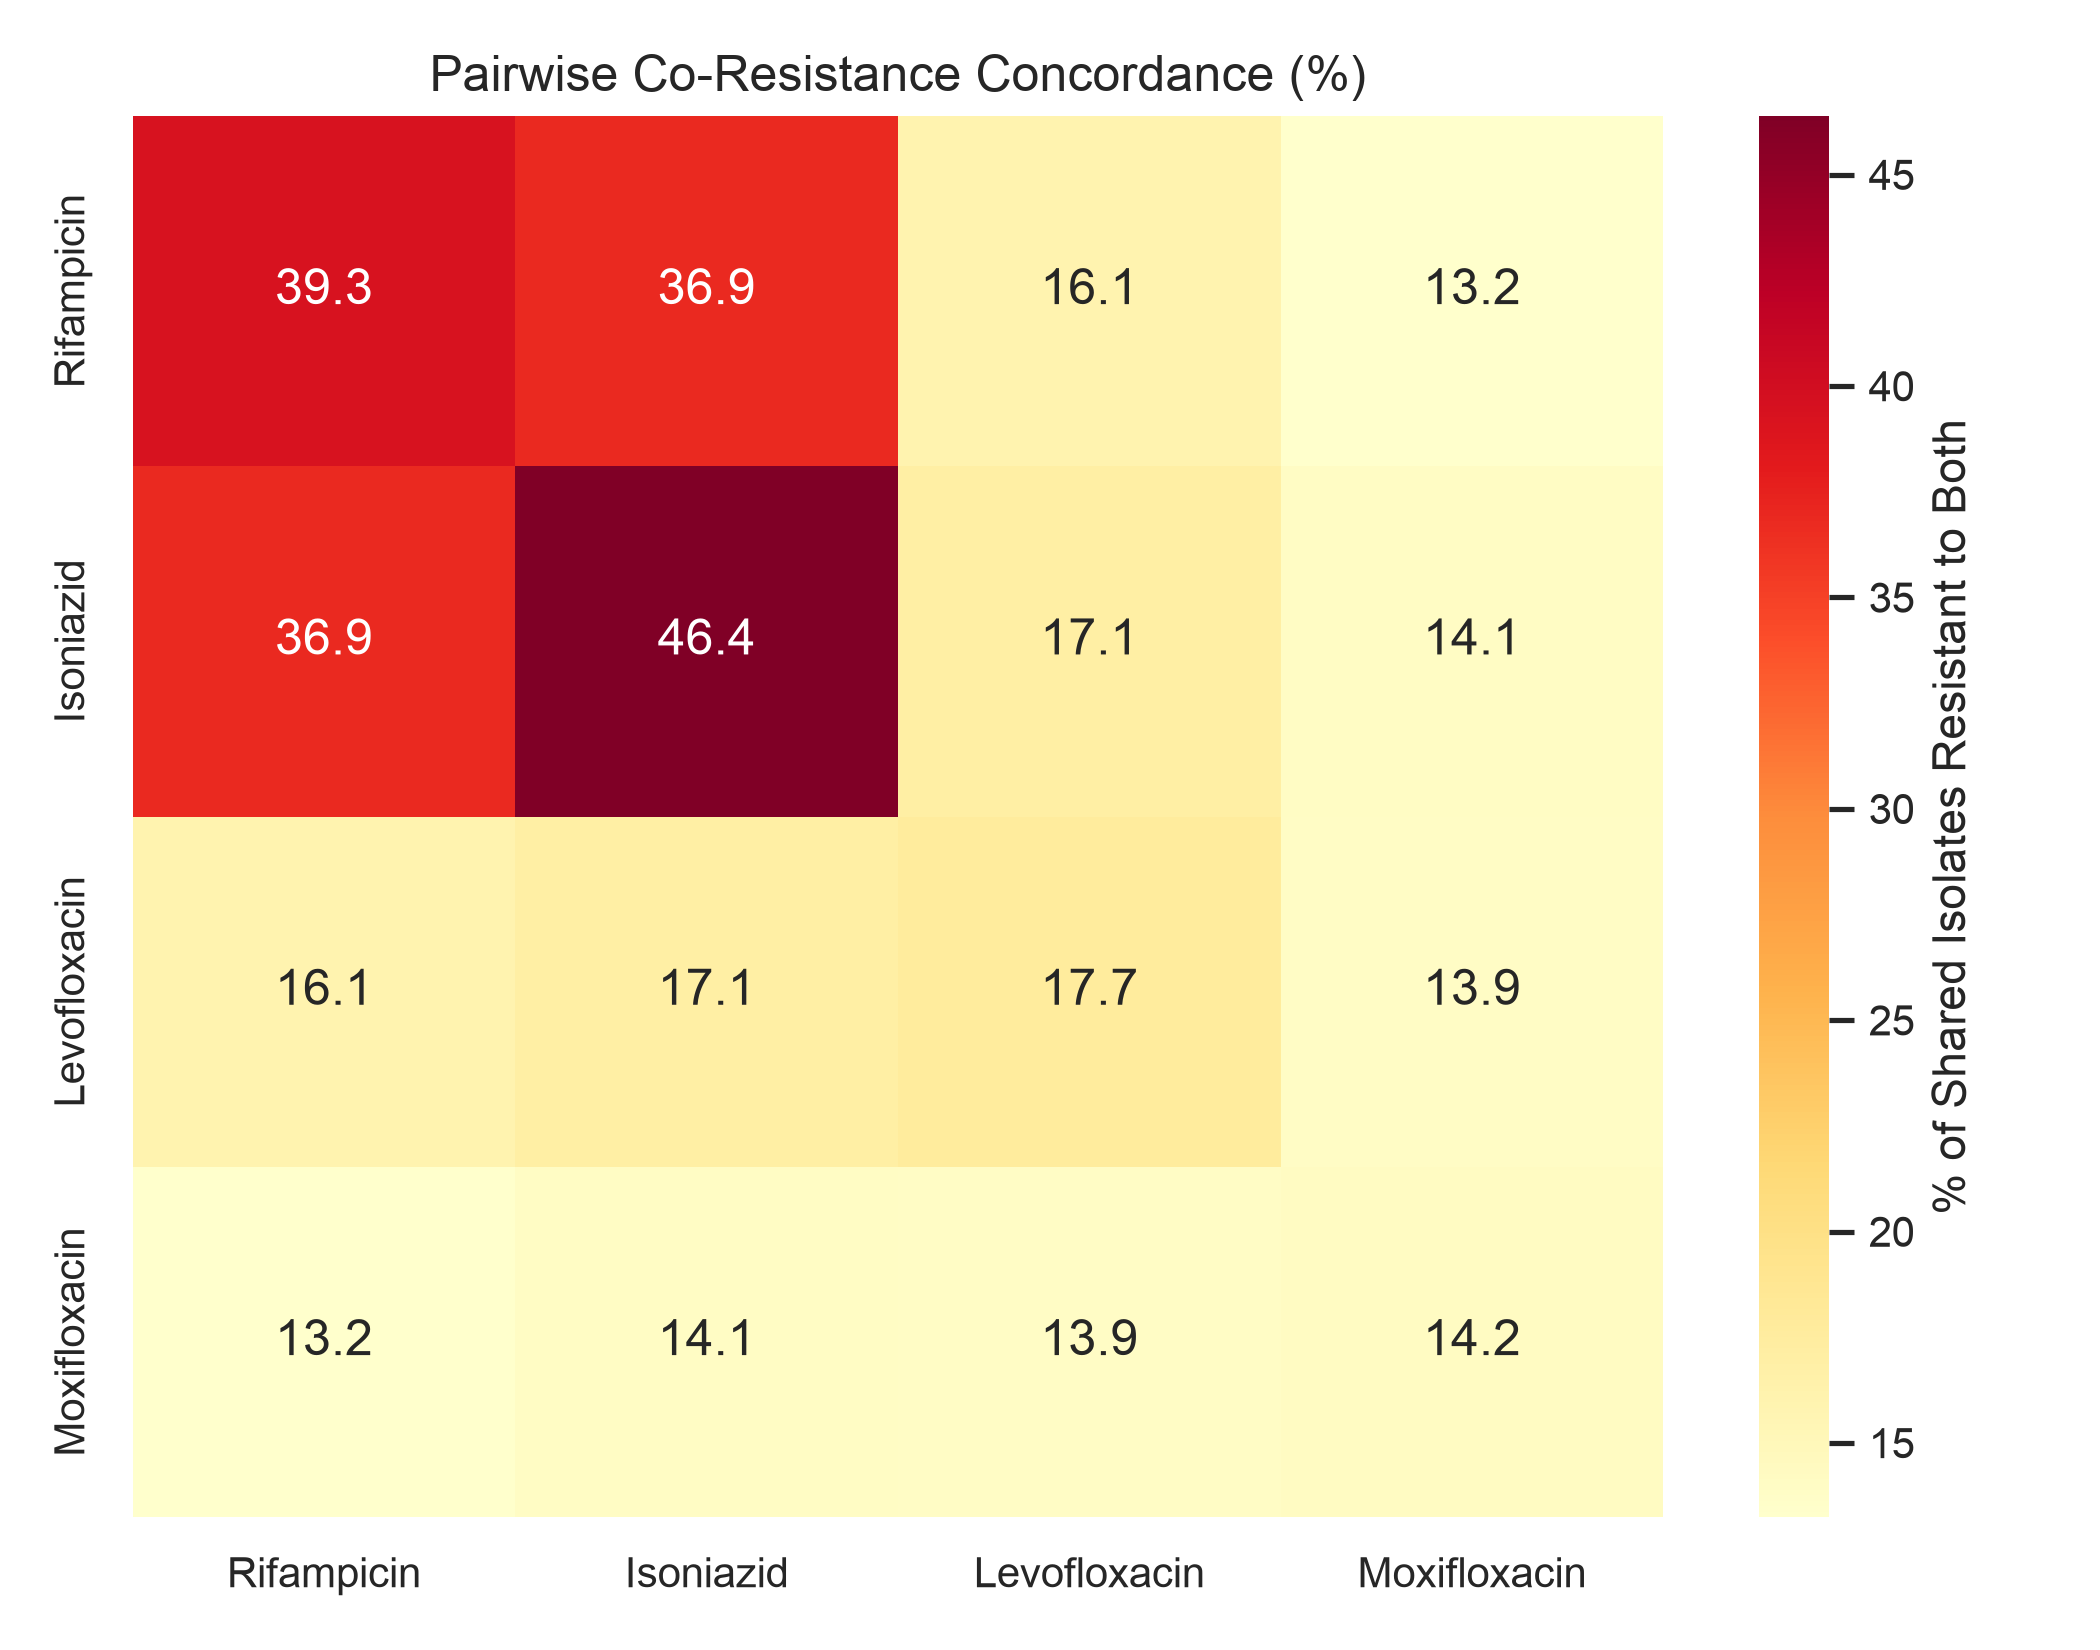
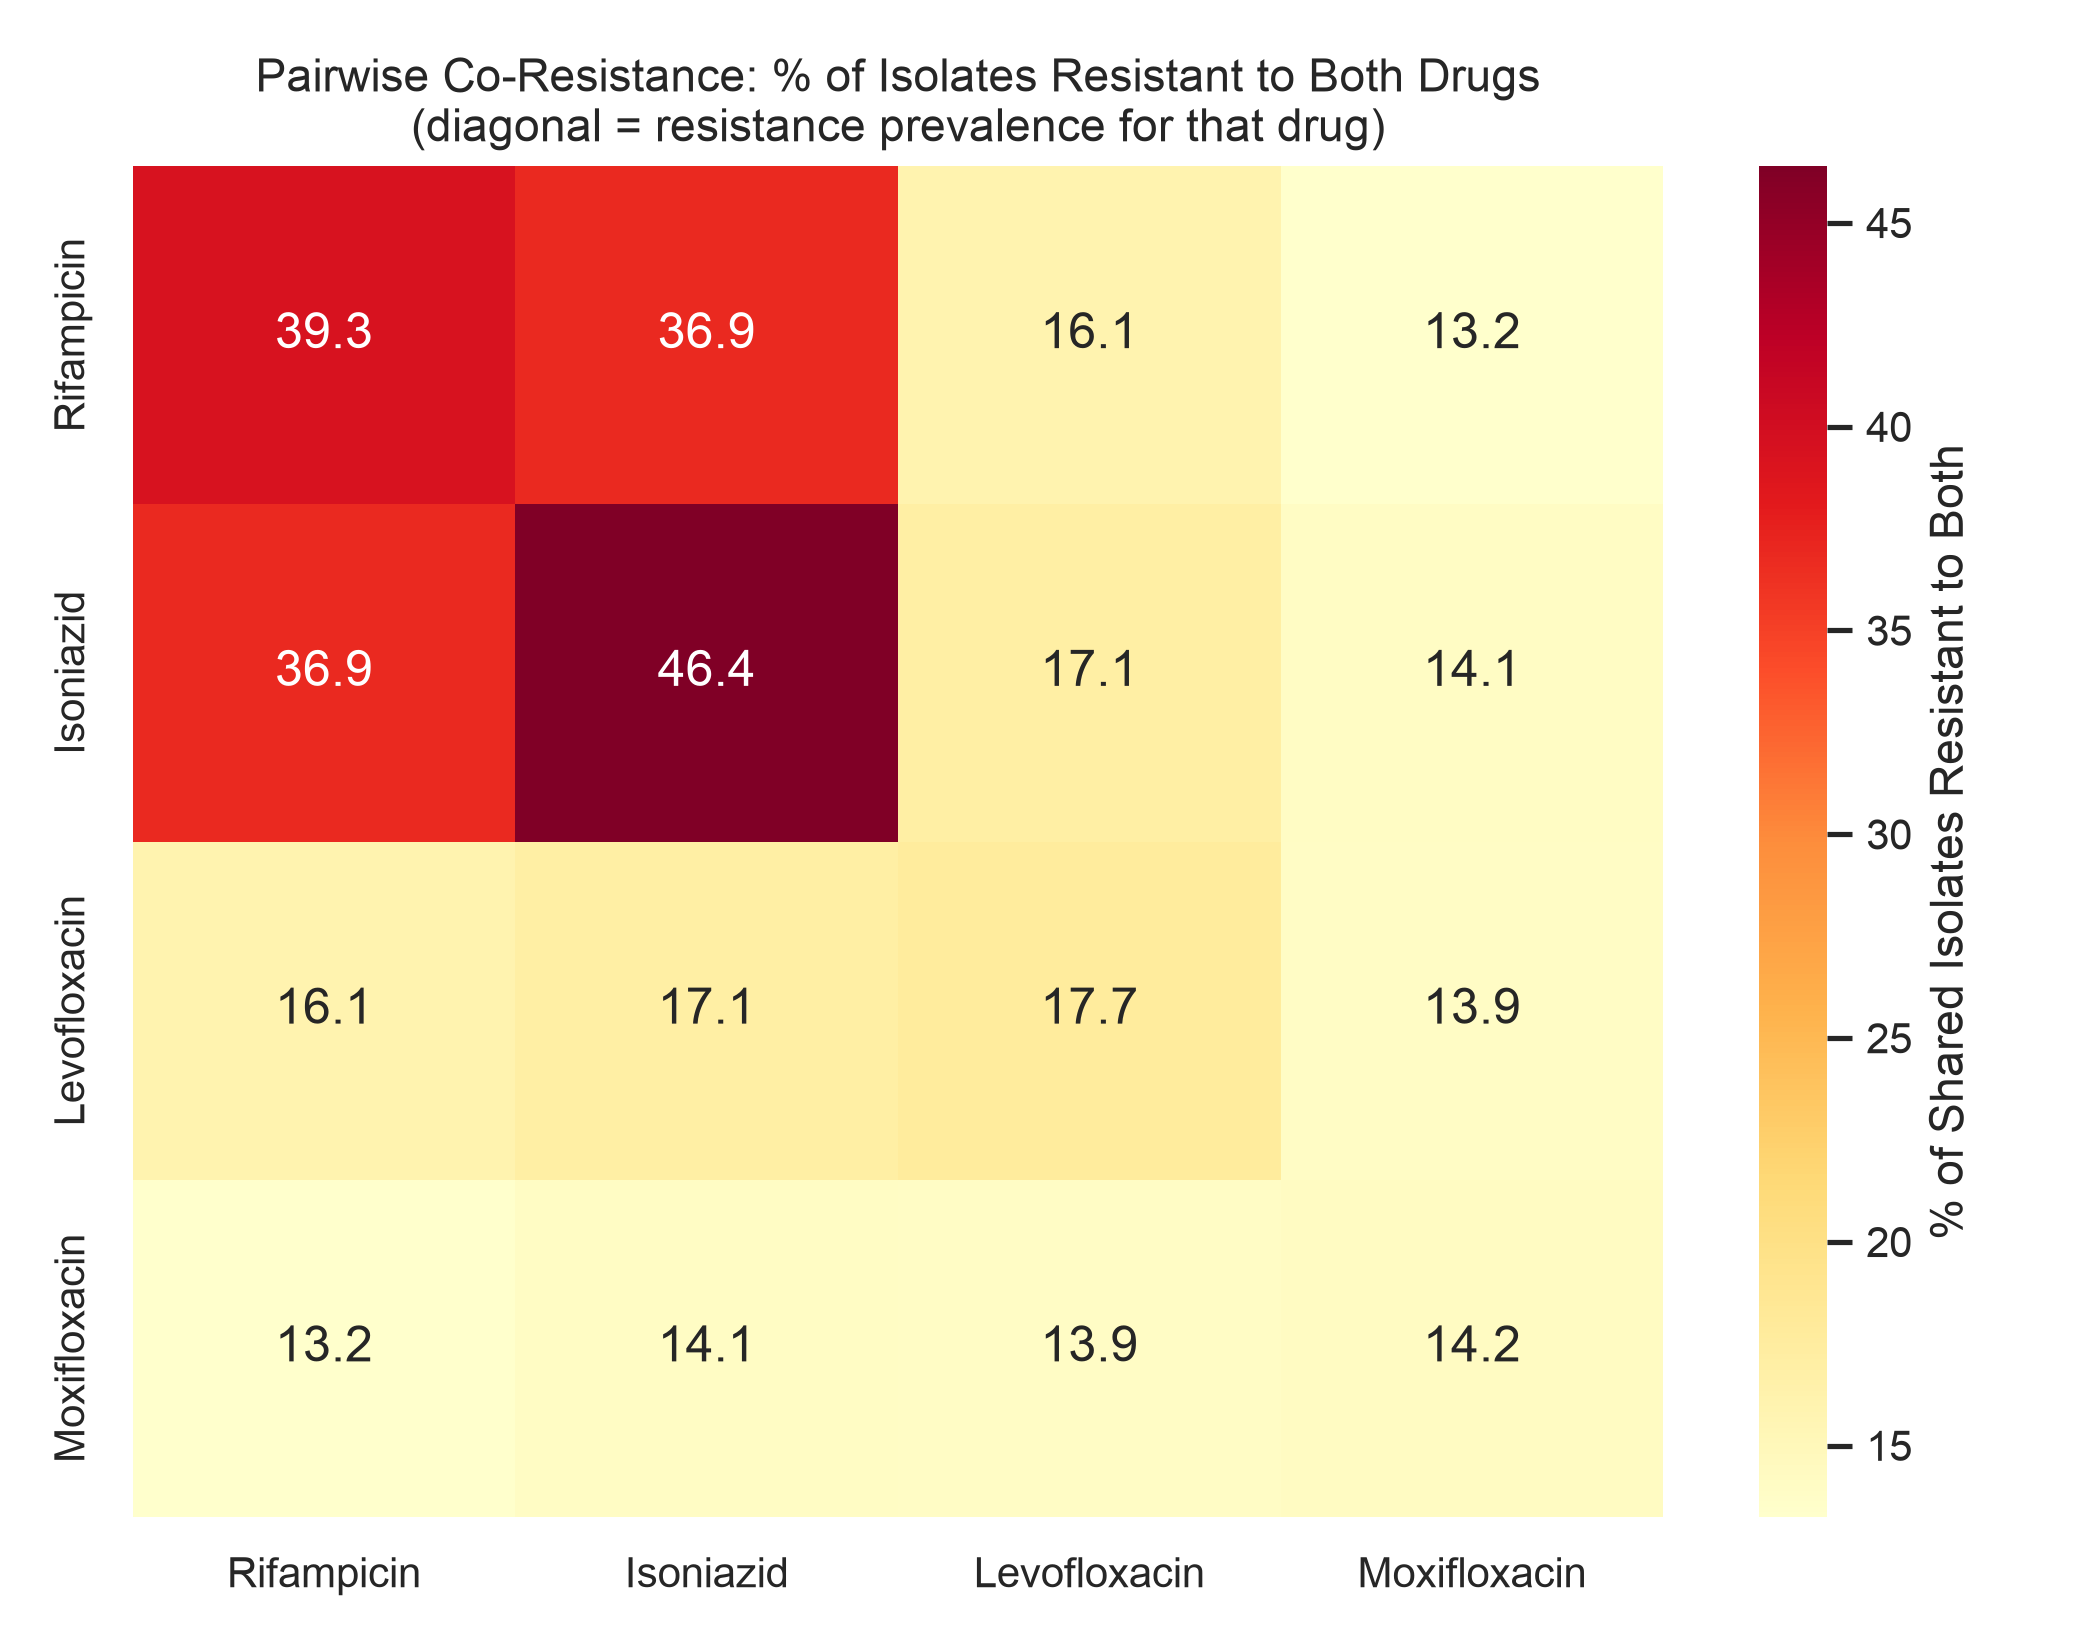
Fix EDA cohort chart drug order and clarify co-resistance heatmap
- Cohort bar chart: summarize_drug_cohorts returns drugs alphabetically,
  but bars were drawn in config order, so each drug showed another
  drug's R/S counts. Reorder the summary before plotting.
- Place prevalence labels above the bars instead of over the title, and
  move the legend so it no longer covers the moxifloxacin label.
- Retitle the heatmap: it shows the % of isolates resistant to both
  drugs (diagonal = resistance prevalence), not concordance.
- Declare matplotlib and seaborn as an `eda` extra in pyproject.toml.
- Regenerate cohort_prevalence.png and co_resistance_heatmap.png.

diff --git a/scripts/generate_eda_report.py b/scripts/generate_eda_report.py
@@ -50,6 +50,8 @@ def main():
     log.info("Generating cohort summary...")
     cohort_summary = summarize_drug_cohorts(processed_dir, drugs)
     cohort_summary.to_csv(tables_dir / "cohort_summary.csv")
+    # summarize_drug_cohorts returns drugs alphabetically; bars are drawn by position
+    cohort_summary = cohort_summary.loc[drugs]
 
     fig, ax1 = plt.subplots(figsize=(8, 4.5), dpi=300)
     colors = ["#2b5c8f", "#d95f02", "#7570b3", "#1b9e77"]
@@ -62,14 +64,17 @@ def main():
     ax1.set_title("CRyPTIC Dataset: Cohort Size and Label Balance per Drug")
     ax1.set_xticks(x)
     ax1.set_xticklabels([d.capitalize() for d in drugs])
-    ax1.legend(loc="upper right")
+    ax1.legend(loc="upper left")
 
-    # Annotate prevalence %
+    # Annotate prevalence % just above the taller bar of each pair
+    tallest = cohort_summary[["resistant", "susceptible"]].max(axis=1)
     for i, d in enumerate(drugs):
         prev = cohort_summary.loc[d, "prevalence_pct"]
         total = cohort_summary.loc[d, "total_isolates"]
-        ax1.text(i, total * 0.95, f"{prev:.1f}% Res\n(N={total:,})", ha="center", fontsize=9,
+        ax1.text(i, tallest[d] * 1.03, f"{prev:.1f}% Res\n(N={total:,})", ha="center",
+                 va="bottom", fontsize=9,
                  bbox=dict(boxstyle="round,pad=0.2", facecolor="white", alpha=0.8, edgecolor="#ccc"))
+    ax1.set_ylim(0, tallest.max() * 1.25)
 
     plt.savefig(figures_dir / "cohort_prevalence.png")
     plt.close()
@@ -80,7 +85,7 @@ def main():
     shared.to_csv(tables_dir / "multidrug_shared_isolates.csv")
     both_res.to_csv(tables_dir / "multidrug_co_resistance.csv")
 
-    # Concordance rate (% of shared isolates resistant to both)
+    # Joint resistance rate (% of isolates tested for both drugs that are resistant to both)
     concordance = (both_res / shared * 100.0).astype(float)
 
     fig, ax = plt.subplots(figsize=(7, 5.5), dpi=300)
@@ -94,7 +99,8 @@ def main():
         xticklabels=[d.capitalize() for d in drugs],
         yticklabels=[d.capitalize() for d in drugs],
     )
-    ax.set_title("Pairwise Co-Resistance Concordance (%)")
+    ax.set_title("Pairwise Co-Resistance: % of Isolates Resistant to Both Drugs\n"
+                 "(diagonal = resistance prevalence for that drug)", fontsize=11)
     plt.savefig(figures_dir / "co_resistance_heatmap.png")
     plt.close()
 
